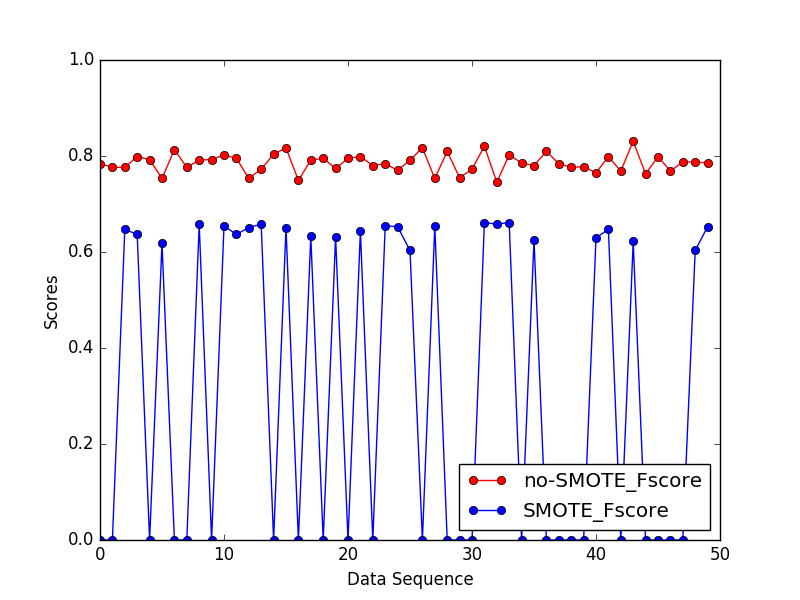
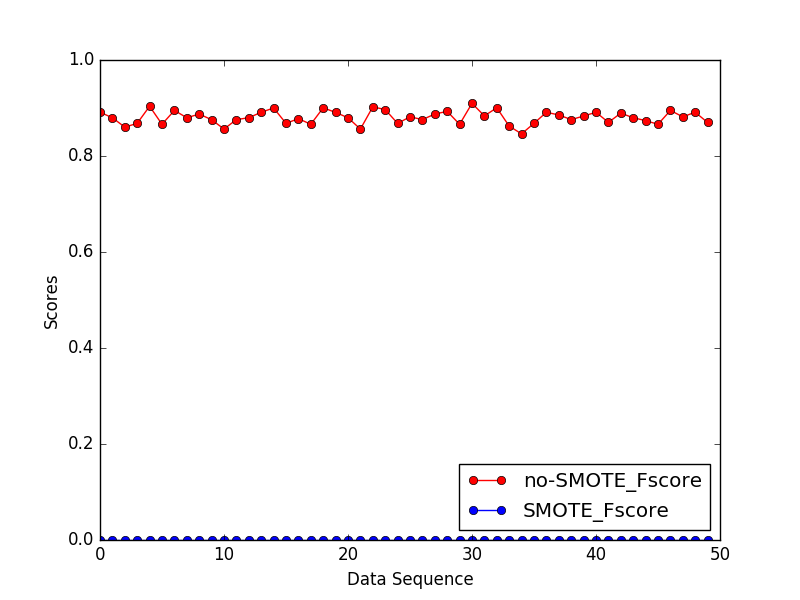
update files and code

diff --git a/code/EmailSignatureExtraction_v2.py b/code/EmailSignatureExtraction_v2.py
@@ -24,6 +24,10 @@ def main():
     data_pos, data_neg = data_filter(data_pos), data_filter(data_neg)
     #data_size = max(len(data_pos), len(data_neg))
     for test_mode in range(2):
+        if test_mode == 0:
+            print "non-SMOTE"
+        else:
+            print "SMOTE"
         sFscores, sRecalls, sPrecisions = list(), list(), list()
         for iteration in range(NUM_OF_ITERATION): # start iteration
             random.seed(iteration)
@@ -35,7 +39,7 @@ def main():
                       "DT": sklearn.tree.DecisionTreeClassifier(), \
                       "NBayes": sklearn.naive_bayes.GaussianNB(), \
                       "NNeighbors": sklearn.neighbors.nearest_centroid.NearestCentroid()}
-            model_chosen = "NNeighbors"
+            model_chosen = "SVC"
             accuracys, precisions, recalls, Fscores = cross_validationS(\
                 data_pos_vec, data_neg_vec, models[model_chosen], num_cross=NUM_OF_CROSSFOLD, smote_flag=test_mode) # cross validation
             sFscores.extend(Fscores)
@@ -152,7 +156,7 @@ def feature_extraction_Doc2Vec(data_pos, data_neg): # use the word2vec under the
         data_neg_vec.append(doc_vec.tolist())
     return data_pos_vec, data_neg_vec
 
-def cross_validation(dataset_pos, dataset_neg, model, num_cross, smote_flag=False):
+def cross_validation(dataset_pos, dataset_neg, model, num_cross, smote_flag=0):
     target = [1] * len(dataset_pos) + [0] * len(dataset_neg)
     data_set = dataset_pos + dataset_neg
     accuracys = sklearn.cross_validation.cross_val_score(model, data_set, target, scoring="accuracy", cv=num_cross)
@@ -161,7 +165,7 @@ def cross_validation(dataset_pos, dataset_neg, model, num_cross, smote_flag=Fals
     Fscores = sklearn.cross_validation.cross_val_score(model, data_set, target, scoring="f1_weighted", cv=num_cross)
     return accuracys.tolist(), precisions.tolist(), recalls.tolist(), Fscores.tolist()
 
-def cross_validationS(dataset_pos, dataset_neg, model, num_cross, smote_flag=False):
+def cross_validationS(dataset_pos, dataset_neg, model, num_cross, smote_flag=0):
     data_size = len(dataset_pos) + len(dataset_neg)
     unit_size = int(data_size*1.0 / num_cross)
     dataset_pos_vec = [entry+["pos"] for entry in dataset_pos]
